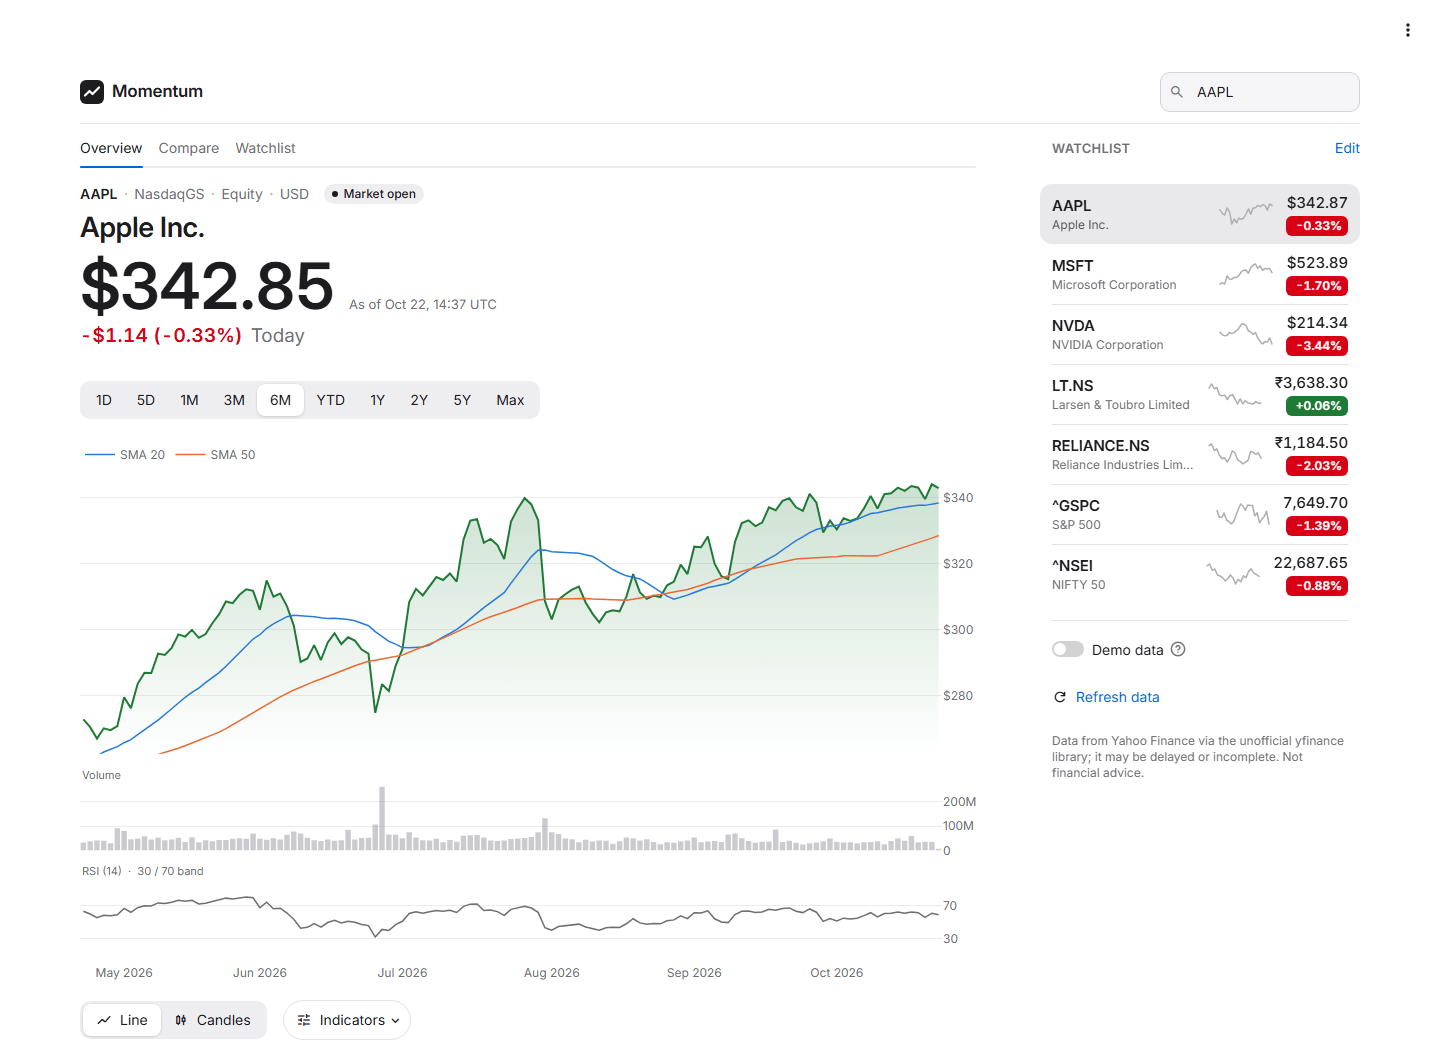
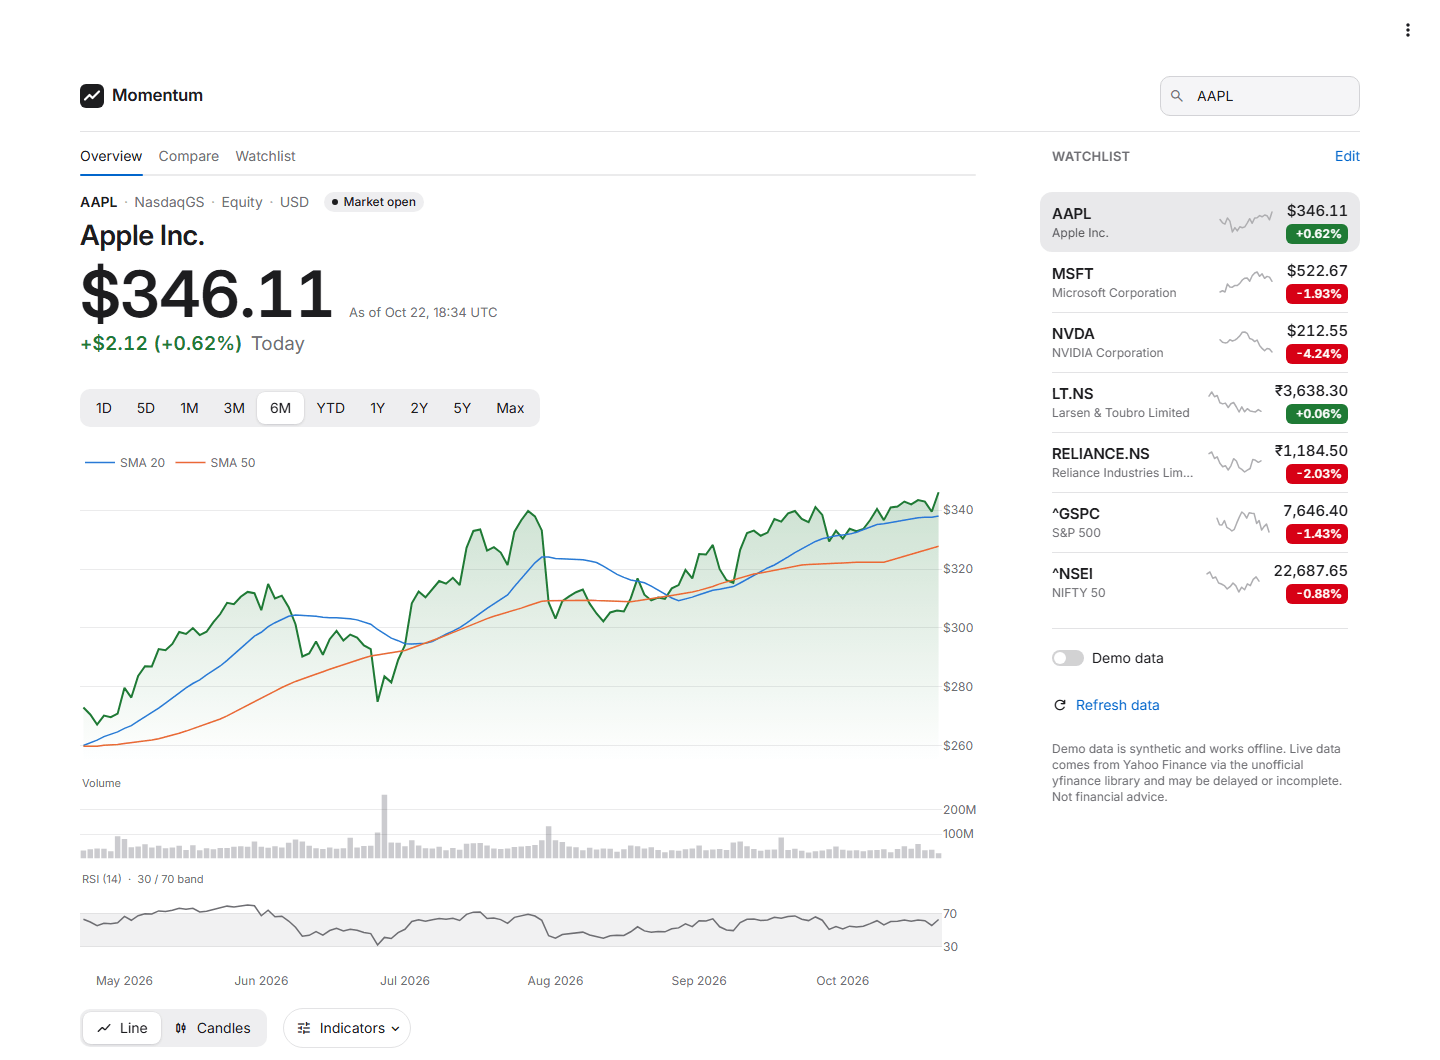
docs: README and screenshots match the code; measured performance
- Corrects claims that were not true: Community Cloud installs from
  uv.lock (it precedes requirements.txt), not requirements.txt; RSI
  matches StockCharts to two decimal places, not "to the cent"; the
  profile TTL, warm-up, KPI card sets, comparison rebasing, caching of
  failures and the "sidebar" toggle now describe what the code does.
- Documents FX/minor-unit formatting, the cross-panel crosshair, the
  designed failure states, serve.py and the HTTP layer.
- New Performance section: Lighthouse medians of five runs against a bare
  st.write('hi') app in the same image, what serve.py changes, and what
  remains framework-owned (client-side rendering before first paint;
  Plotly's 200-260 ms long task on chart views).
- Screenshots recaptured from the Docker image with live data (adds the
  crosshair readout), optimised with sharp (about 60 KB each, no banding).

diff --git a/scripts/capture_screenshots.py b/scripts/capture_screenshots.py
@@ -57,6 +57,27 @@ def desktop(browser: Browser, scheme: Scheme, height: int) -> Page:
     return ctx.new_page()
 
 
+def crosshair(page: Page, url: str, name: str) -> None:
+    """The chart with MACD switched on and the pointer over it: one crosshair and one
+    readout through every panel."""
+    page.goto(url)
+    wait_for_app(page)
+    page.get_by_role("button", name="Indicators").click()
+    page.get_by_label("MACD (12, 26, 9)").check(force=True)
+    page.keyboard.press("Escape")
+    wait_for_app(page)
+    chart = page.locator(".st-key-chart_slot .js-plotly-plot")
+    chart.scroll_into_view_if_needed()
+    box = chart.bounding_box()
+    assert box is not None
+    page.mouse.move(box["x"] + box["width"] * 0.62, box["y"] + 140)
+    page.mouse.move(box["x"] + box["width"] * 0.62 + 2, box["y"] + 150)
+    page.wait_for_timeout(800)
+    path = OUT_DIR / f"{name}.png"
+    page.screenshot(path=str(path), clip=box)
+    print(f"saved {path}")
+
+
 def main() -> None:
     parser = argparse.ArgumentParser(description=__doc__)
     parser.add_argument("--base-url", default="http://localhost:8501")
@@ -78,6 +99,10 @@ def main() -> None:
         page = desktop(browser, "light", 1000)
         shoot(page, f"{base}/?ticker=AAPL&range=1Y&view=Compare{demo}", "compare")
         shoot(page, f"{base}/?view=Watchlist{demo}", "watchlist", charts=0, selector=TABLE)
+        page.context.close()
+
+        page = desktop(browser, "light", 1200)
+        crosshair(page, f"{base}/?ticker=AAPL&range=3M{demo}", "crosshair")
         page.context.close()
 
         mobile = browser.new_context(

diff --git a/README.md b/README.md
@@ -26,39 +26,53 @@ degrades gracefully when Yahoo misbehaves.
 
 | Compare | Watchlist |
 | --- | --- |
-| ![Relative performance](docs/screenshots/compare.png) | ![Watchlist](docs/screenshots/watchlist.png) |
+| ![Relative performance, each line labelled at its end](docs/screenshots/compare.png) | ![Watchlist](docs/screenshots/watchlist.png) |
 
-<sub>Screenshots show live Yahoo Finance data from a local run on 22 Oct 2026, captured with
-<code>scripts/capture_screenshots.py</code>. The hero image above is an illustration and shows
-no market data.</sub>
+![One crosshair through the price, volume, RSI and MACD panels, with a readout listing every series](docs/screenshots/crosshair.png)
+
+<sub>Screenshots show live Yahoo Finance data (the 22 Oct 2026 US session), captured from the
+Docker image with <code>scripts/capture_screenshots.py</code> on 23 Oct 2026. The hero image above
+is an illustration and shows no market data.</sub>
 
 ## Features
 
-- **Any Yahoo symbol, correctly labelled.** Prices carry their own currency (`$`, `₹`, `€`, `£` and
-  others). London listings are shown in pence (`120.50p`) as the LSE quotes
-  them, with market cap in pounds, and index levels are shown as points, not dollars. The
-  header shows exchange, instrument type and market state (open, pre-market, after hours or
-  closed).
+- **Any Yahoo symbol, correctly labelled.** Prices carry their own currency (`$`, `₹`, `€`, `£`,
+  `CN¥` and others). London, Johannesburg and Tel Aviv listings are shown in the minor unit the
+  exchange quotes (`120.50p`, `67,899c`, `12,410 ag`), with market cap in the major currency.
+  Index levels are points and FX rates are plain ratios to four places (`EUR/USD 1.1222`), not
+  dollars. A move that rounds to zero reads `0.00`, never `-0.00`. The header shows exchange,
+  instrument type and market state (open, pre-market, after hours or closed).
 - **Chart first.** An area-gradient line by default, or candlesticks, with volume, for ten
   ranges (1D to Max) and the bar intervals Yahoo actually supports for each range (for example,
   1-minute bars only for 1D). The line is green or red by the move over the range; on 1D it is
-  measured against the previous close, which is drawn as a dotted reference line. A crosshair
-  readout lists every series at the hovered bar. Weekends, exchange holidays and overnight gaps
-  are removed from the axis, and times are shown in the exchange's local time.
+  measured against the previous close, which is drawn as a dotted reference line. One crosshair
+  runs through the price, volume, RSI and MACD panels, and one readout lists every series at the
+  hovered bar, value first. Weekends, exchange holidays and overnight gaps are removed from the
+  axis, and times are shown in the exchange's local time.
 - **Technical indicators:** SMA 20/50/200, EMA 12/26, Bollinger Bands (20, 2), RSI (14, Wilder)
-  and MACD (12, 26, 9). Daily-and-longer charts fetch extra history so moving averages are
-  already defined at the left edge of the chart.
+  and MACD (12, 26, 9), computed as StockCharts defines them (EMAs seeded with an SMA). Daily,
+  weekly and monthly charts fetch at least 250 bars before the visible range, so even SMA 200 is
+  defined at the left edge. Intraday ranges and Max have no earlier history to fetch, so their
+  indicators start once enough bars exist.
 - **KPI cards** for the range return, market cap, P/E (TTM), volume vs. 3-month average and
-  annualised volatility. Indices, FX and crypto get day high/low and max drawdown instead.
+  annualised volatility. Indices, FX, crypto, ETFs and futures get day high/low and max drawdown
+  instead.
 - **Key statistics** with day and 52-week range bars, plus a company profile (sector, industry,
   employees, website, business summary).
-- **Compare** up to six symbols as cumulative % return from a common start, with return,
-  volatility and max-drawdown columns.
+- **Compare** up to six symbols as cumulative % return, each rebased to 0% at its first bar in
+  the range, with up to four lines labelled at their end, and return, volatility and
+  max-drawdown columns.
 - **Watchlist rail** beside the chart: each symbol with its name, a 1-month sparkline, price
-  and a day-change badge. Click a row (or tab to it and press Enter) to open it. The
+  and a day-change badge. Click a row (or tab to it and press Enter; the arrow keys move between
+  rows) to open it. The
   **Watchlist** tab holds up to twelve symbols in a full table with 52-week position and range,
   market cap and P/E; select a row there to open that symbol.
-- **CSV export** of the visible prices plus indicators, the comparison and the watchlist.
+- **CSV export** of the visible prices plus indicators, the comparison and the watchlist, at full
+  precision.
+- **Designed failure states.** An unknown symbol, a network outage or a Yahoo rate limit each
+  get a short headline and one next step in place of the quote ("Can't reach Yahoo Finance."),
+  and Compare, the Watchlist and the rail say it once instead of on every row. Network and
+  rate-limit failures are never cached, so the next interaction retries.
 - **Shareable URLs.** Symbol, range, tab and demo mode live in the query string, e.g.
   `?ticker=LT.NS&range=1Y&view=Compare`.
 - **Light and dark themes**, each designed for its surface. They follow the OS setting and can be
@@ -71,29 +85,37 @@ no market data.</sub>
 
 The interface follows Apple Stocks: neutral greys with the numbers as the hero, and market
 green/red reserved for price state (the price line, candles, change badges and day change).
-Indicator lines use a six-colour palette, checked for colour-blind separation, that leaves out
-green and red.
+Indicator and comparison lines use a six-colour categorical palette, validated for colour-blind
+separation on both surfaces, that leaves out the market green and red.
 
 - **Type:** Inter with its optical-size axis. Prices, statistics and tables use tabular figures,
   so digits line up and do not jitter when they update.
 - **Colour:** tokens live in `src/momentum/theme.py` and `src/momentum/ui/styles.css`. Every text
   colour meets WCAG AA on the surfaces it is used on; `tests/test_theme.py` checks each ratio.
-- **Stable layout:** Streamlit loads each element's code lazily, so everything above the fold sits
-  in a fixed-height slot with a skeleton of the same size, and nothing moves when data arrives.
+- **Stable layout:** Streamlit loads each element's code lazily, so everything above the fold,
+  the top bar included, sits in a fixed-height slot with a skeleton of the same size, and nothing
+  moves when data arrives (or when an element fails to load). Measured CLS is at most 0.003 on
+  desktop and 0.01 on phones through `serve.py`.
 - **Motion:** only hover fades and a pulse on loading skeletons, both turned off under
   `prefers-reduced-motion`.
-- **Accessibility:** one 2px focus ring everywhere, keyboard-reachable rail rows with spoken
-  labels ("AAPL, Apple Inc., $342.87, down 0.33% today"), and a text alternative for each chart,
-  with the data in a table behind it.
+- **Accessibility:** one 2px focus ring everywhere. Every target is at least 24 px (WCAG 2.5.8);
+  on touch screens the Overview controls are 44 px or more (the range control scrolls sideways
+  rather than shrink its segments), while Streamlit's multiselect chips, the data grid's toolbar
+  and the company's website link stay between 24 and 28 px. Rail rows are keyboard-reachable,
+  keep focus across reruns and have spoken labels ("AAPL, Apple Inc., $342.87, down 0.33%
+  today"). Each chart has a text alternative and a table: the price data behind the price chart,
+  and per-symbol returns under Compare.
 
 ## Architecture
 
 ```mermaid
 flowchart LR
-    user([Browser]) <--> entry[streamlit_app.py]
-    entry --> app[momentum.app<br/>sidebar + page layout]
+    user([Browser]) <--> serve[serve.py<br/>st.App + momentum.server<br/>gzip, robots.txt, head tags]
+    serve --> entry[streamlit_app.py]
+    entry --> app[momentum.app<br/>top bar, rail + page layout]
     app --> views[momentum.ui.views<br/>overview / compare / watchlist]
     views --> kpis[ui.kpis<br/>pure KPI + stats models]
+    views --> messages[ui.messages<br/>error and empty-state copy]
     views --> components[ui.components<br/>HTML-escaped widgets, rail component]
     views --> rail[ui.rail<br/>pure watchlist-rail model]
     charts --> theme[momentum.theme<br/>light + dark tokens]
@@ -110,11 +132,12 @@ flowchart LR
 ```
 
 - `data`: providers translate every upstream failure (unknown symbol, rate limit, network error)
-  into one of three `DataError` types whose messages are safe to show to users. Parsing is pure.
+  into a small `DataError` hierarchy whose messages are safe to show to users. Parsing is pure.
   Batch loaders fetch in parallel and isolate per-symbol failures.
-- `indicators`, `charts`, `theme`, `formatting`, `ui.kpis` and `ui.rail` are pure functions of
-  DataFrames and dataclasses, with no Streamlit and no I/O, so they are unit-tested directly.
-- `ui` is the only layer that calls Streamlit widgets.
+- `indicators`, `charts`, `theme`, `formatting`, `ui.kpis`, `ui.rail` and `ui.messages` are pure
+  functions of DataFrames and dataclasses, with no Streamlit and no I/O, so they are unit-tested
+  directly.
+- `ui` is the only layer that calls Streamlit widgets; `server` is plain ASGI.
 
 ## Quickstart
 
@@ -127,30 +150,72 @@ docker run --rm -p 8501:8501 momentum
 docker run --rm -p 8501:8501 -e MOMENTUM_DEMO=1 momentum
 ```
 
-Open <http://localhost:8501>. The image is multi-stage, runs as a non-root user and has a
-`HEALTHCHECK` on Streamlit's `/_stcore/health` endpoint.
+Open <http://localhost:8501>. The image is multi-stage, runs as a non-root user, has a
+`HEALTHCHECK` on Streamlit's `/_stcore/health` endpoint, and serves the app through `serve.py`
+(see [Performance](#performance)).
 
 ### Local (uv)
 
 ```bash
 uv sync                      # Python 3.12 + locked dependencies + dev tools
-uv run streamlit run streamlit_app.py
+uv run streamlit run streamlit_app.py   # development
+uv run streamlit run serve.py           # as in production: gzip, robots.txt, head tags
 ```
 
 ### Streamlit Community Cloud
 
 1. Fork this repository and click **Create app** on [share.streamlit.io](https://share.streamlit.io).
 2. Set **Main file path** to `streamlit_app.py`, and choose Python 3.12 under *Advanced settings*.
-3. Deploy. Pinned dependencies come from `requirements.txt` (generated from `uv.lock`), and the
-   theme from `.streamlit/config.toml`. The entrypoint adds `src/` to the import path when the
-   package itself is not installed, so no extra setup is needed.
+3. Deploy. Community Cloud installs from the first dependency file it finds, and `uv.lock` comes
+   before `requirements.txt`, so it installs the locked versions from `uv.lock`
+   (`requirements.txt` is exported from the same lock, checked in CI, for pip-based hosts). The
+   theme comes from `.streamlit/config.toml`. The entrypoint adds `src/` to the import path when
+   the package itself is not installed, so no extra setup is needed. `serve.py` is used by the
+   Docker image and has not been tested on Community Cloud, so point Cloud at `streamlit_app.py`.
+
+## Performance
+
+Lighthouse 13.5 scores for the Docker image on a local machine (median of five runs, default
+simulated throttling, desktop and mobile presets), next to a bare `st.write("hi")` app in the
+same image:
+
+| Page | Performance (desktop / mobile) | Accessibility | Best practices | SEO |
+| --- | --- | --- | --- | --- |
+| Bare Streamlit, plain `streamlit run` | 73 / 55 | 100 | 100 | 82 |
+| Bare Streamlit through `serve.py` | 95 / 67 | 100 | 100 | 100 |
+| Overview | 88 / 42 | 100 | 100 | 100 |
+| Compare | 87 / 42 | 100 | 100 | 100 |
+| Watchlist | 94 / 65 | 100 | 100 | 100 |
+
+Before `serve.py` the three views scored 60 / 32, 60 / 30 and 71 / 53, with SEO 82.
+
+`serve.py` runs the app through `st.App` with `momentum.server` in front of it:
+
+- **Compression.** Streamlit serves its frontend bundle uncompressed. The image build writes a
+  brotli copy of every asset (20.9 MB to 5.1 MB), served to browsers that accept it. Other
+  browsers get gzip, compressed once per process and cached. Plotly's chunk goes from 4.6 MB to
+  1.1 MB.
+- **Document.** It sets a real title and a meta description, drops a preload of a font the theme
+  never uses (166 KB), and adds one critical CSS rule. That rule removes the shift as
+  Streamlit's initial narrow shell turns wide (desktop CLS 0.02–0.047 down to at most 0.003).
+- **robots.txt.** Streamlit answers `/robots.txt` with its HTML page; `serve.py` returns a real
+  one.
+
+What remains belongs to the framework, as the bare-app rows show:
+
+- Streamlit renders entirely in the browser, so nothing paints until its entry bundle has run and
+  the websocket session has started. On Lighthouse's mobile profile (slow 4G, 4x CPU slowdown)
+  that takes about 5.3 s even for the bare app, which caps it at 67.
+- On Overview and Compare almost all of the remaining blocking time is one 200–260 ms task in
+  Plotly's chunk, which loads and draws the chart. The Watchlist has no Plotly chart and scores
+  within two points of the bare app.
 
 ## Configuration
 
 | Setting | Where | Default | Effect |
 | --- | --- | --- | --- |
 | `MOMENTUM_DEMO` | env var | `0` | `1`/`true` starts with synthetic demo data |
-| `?demo=true` | URL | off | Same, per session (also a sidebar toggle) |
+| `?demo=true` | URL | off | Same, per session (also the Demo data toggle in the rail) |
 | `?ticker=`, `?range=`, `?view=` | URL | `AAPL`, `6M`, `Overview` | Deep links |
 | Theme, server options | `.streamlit/config.toml` | | Light/dark palettes, Inter, headless server |
 | Cache TTLs, defaults | `src/momentum/config.py` | quotes 60 s, intraday 60 s, daily 15 min, profile 24 h | |
@@ -167,23 +232,28 @@ uv run mypy                  # strict mode
 ```
 
 - **Indicators** are checked against published reference values: RSI reproduces the StockCharts
-  ChartSchool worksheet to the cent, and MACD, EMA and Bollinger Bands are checked against
-  hand-computed recursions.
+  ChartSchool worksheet to two decimal places and the EMA reproduces its 10-day EMA worksheet to
+  within 0.01; MACD and Bollinger Bands are checked against hand-computed values, and every
+  daily-or-longer range and interval the UI offers is checked for at least 250 bars of warm-up.
 - **Data layer** tests replace `yfinance.Ticker` with fakes covering empty frames, `Infinity`
   values, rate limits, connection errors, timezone handling, partial batch failures and the
-  rule that failures are never cached.
-- **Formatting** tests cover currencies, pence-quoted listings, indices, compact numbers and
-  missing values.
+  rule that transient failures are never cached (batch results drop their cache entry).
+- **Formatting** tests cover currencies, minor-unit listings (pence, cents, agorot), indices, FX
+  rates, values that round to zero, compact numbers, missing values and lossless CSV export.
 - **App smoke tests** run the real script with `streamlit.testing.v1.AppTest` (demo data, network
-  stubbed to fail), covering each tab, URL deep links, invalid symbols and the
-  network-failure path.
+  stubbed to fail), covering each tab, URL deep links, invalid and unknown symbols, and the
+  network-failure and rate-limit states on every view.
+- **Server** tests drive `momentum.server` as plain ASGI: gzip and its cache, pass-through for
+  HEAD, Range and media requests, the rewritten document head, robots.txt, and that
+  `streamlit run serve.py` detects the app.
 - **UI** tests cover the per-theme Plotly templates, line colour by direction, the previous-close
   reference, stable series colours, the rail model and sparkline geometry, header markup and
   escaping, and the WCAG contrast of every text colour.
 
 CI (`.github/workflows/ci.yml`) runs lint, format check, mypy, tests with coverage, a check that
-`requirements.txt` matches `uv.lock`, and a Docker build whose container must report healthy and
-run as non-root.
+`requirements.txt` matches `uv.lock`, and a Docker build whose container must report healthy, run
+as non-root, render the app (AppTest inside the image) and serve robots.txt, the real title and a
+gzipped bundle.
 
 To refresh the README screenshots, start the app and run
 `uv run --group screenshots python scripts/capture_screenshots.py` (add `--demo` for synthetic data).
@@ -193,7 +263,8 @@ The hero images come from `uv run python scripts/make_hero.py`.
 
 ```text
 .
-├── streamlit_app.py           # thin entrypoint (local, Docker, Streamlit Cloud)
+├── streamlit_app.py           # thin entrypoint (local, Streamlit Cloud)
+├── serve.py                   # production entrypoint: st.App + momentum.server (Docker)
 ├── src/momentum/
 │   ├── app.py                 # page composition and sidebar
 │   ├── config.py              # ranges, valid intervals, warm-up, TTLs
@@ -203,7 +274,8 @@ The hero images come from `uv run python scripts/make_hero.py`.
 │   ├── charts.py              # Plotly price/indicator and comparison figures
 │   ├── theme.py               # light and dark design tokens
 │   ├── formatting.py          # currency-aware number formatting
-│   └── ui/                    # views, components, KPI + rail models, styles.css, rail.js/css
+│   ├── server.py              # gzip, robots.txt and head tags around Streamlit (ASGI)
+│   └── ui/                    # views, components, KPI/rail/message models, styles.css, rail.js/css
 ├── tests/                     # pytest suite (no network)
 ├── scripts/                   # capture_screenshots.py, make_hero.py
 ├── docs/                      # hero-light/dark.svg, screenshots/
@@ -218,18 +290,27 @@ The hero images come from `uv run python scripts/make_hero.py`.
 - **A provider seam instead of calling yfinance everywhere.** The UI depends on
   `MarketDataProvider`, so demo data, tests and a future paid API are drop-in replacements.
 - **Errors are values at the boundary.** yfinance raises a mix of its own, `curl_cffi` and
-  built-in exceptions. They are translated once into `NoDataError`, `DataSourceError` or
-  `InvalidSymbolError`, and the UI only shows those messages.
+  built-in exceptions. They are translated once into `InvalidSymbolError`, `NoDataError` (with
+  `EmptyRangeError` for a window with no bars) or `DataSourceError` (with `RateLimitError`), and
+  `ui.messages` turns each into a short headline and next step; raw exception text never reaches
+  the page.
 - **Cache successes only.** `st.cache_data` does not memoise exceptions, so a transient outage is
-  retried on the next interaction instead of being pinned for the TTL. TTLs are shorter for
-  intraday bars than for daily bars.
-- **Indicator warm-up.** Showing SMA 50 on a 6-month chart needs about 50 bars before the first
-  visible one. Daily-and-longer ranges fetch a longer period, compute indicators on it and trim
-  the result. Intraday ranges don't, because Yahoo caps intraday look-back.
+  retried on the next interaction instead of being pinned for the TTL. Batch loaders return
+  per-symbol failures as values, so their wrappers drop the cache entry when any failure is
+  transient. TTLs are shorter for intraday bars than for daily bars, and company profiles keep
+  for a day.
+- **Indicator warm-up.** Showing SMA 200 on a 6-month chart needs 200 bars before the first
+  visible one. Daily-and-longer ranges fetch the shortest Yahoo period that covers the range plus
+  250 bars at the chosen interval, compute indicators on it and trim the result. Intraday ranges
+  don't, because Yahoo caps intraday look-back.
 - **Exchange-local time.** Bars are converted to naive exchange-local timestamps, so a 09:15 NSE
   open reads 09:15 for every viewer, and overnight gaps can be removed from the axis.
-- **Wilder RSI and population-σ Bollinger Bands**, matching what charting platforms display
-  rather than a naive rolling mean or sample standard deviation.
+- **Wilder RSI, SMA-seeded EMAs and population-σ Bollinger Bands**, matching what charting
+  platforms display rather than a naive rolling mean, a first-value seed or a sample standard
+  deviation.
+- **A thin ASGI layer instead of a reverse proxy.** Streamlit's own `st.App` takes routes and
+  middleware, so compression, robots.txt and the document head live in tested Python in the same
+  process, with no second server to configure or supervise.
 - **Escaping.** All Yahoo-provided text (names, summaries, URLs) is HTML-escaped before it goes
   into custom markup.
 
